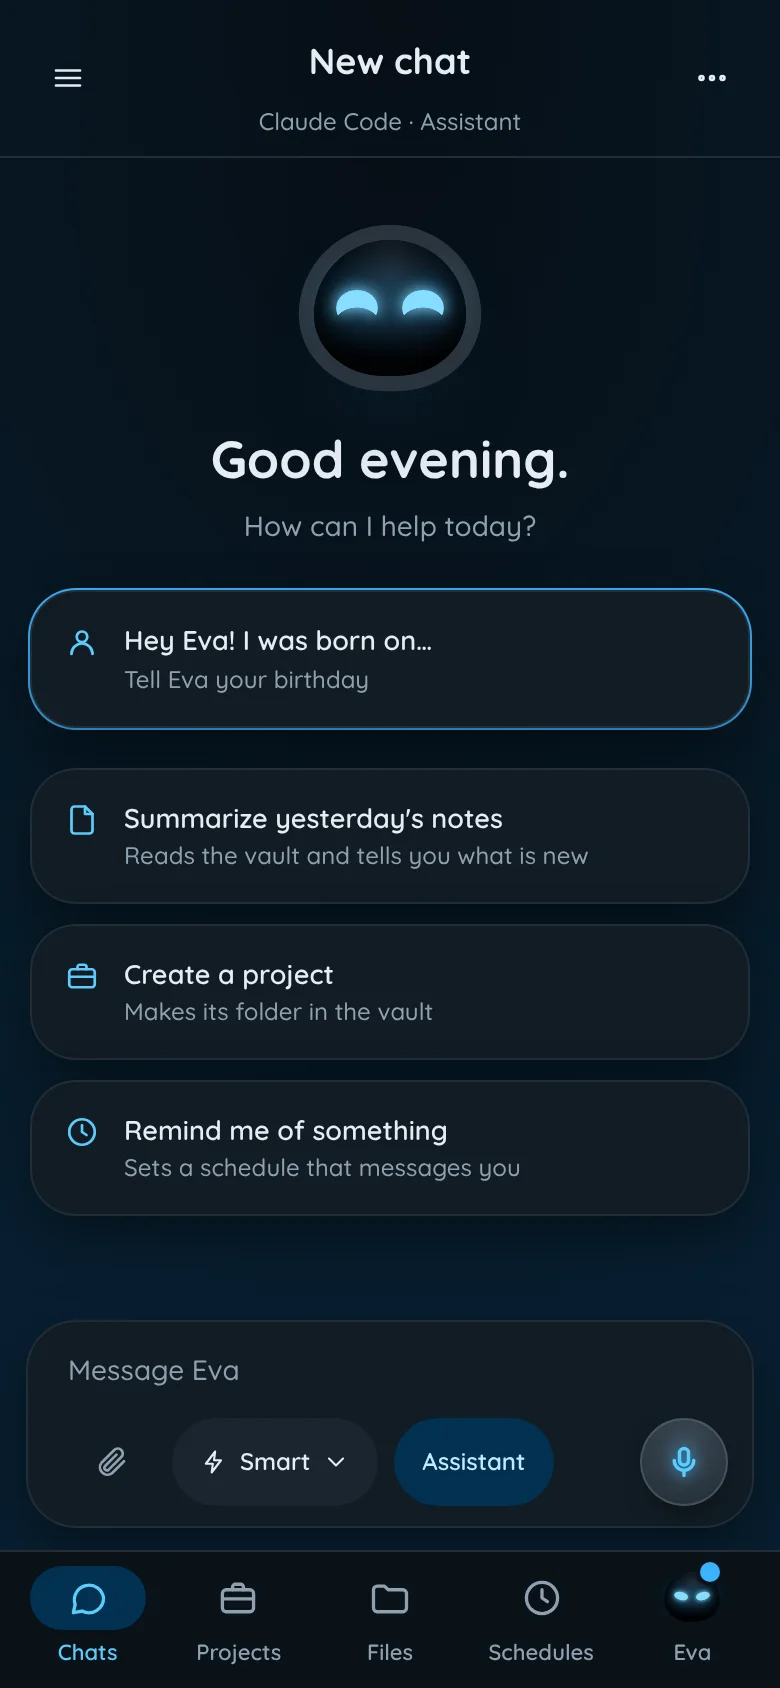
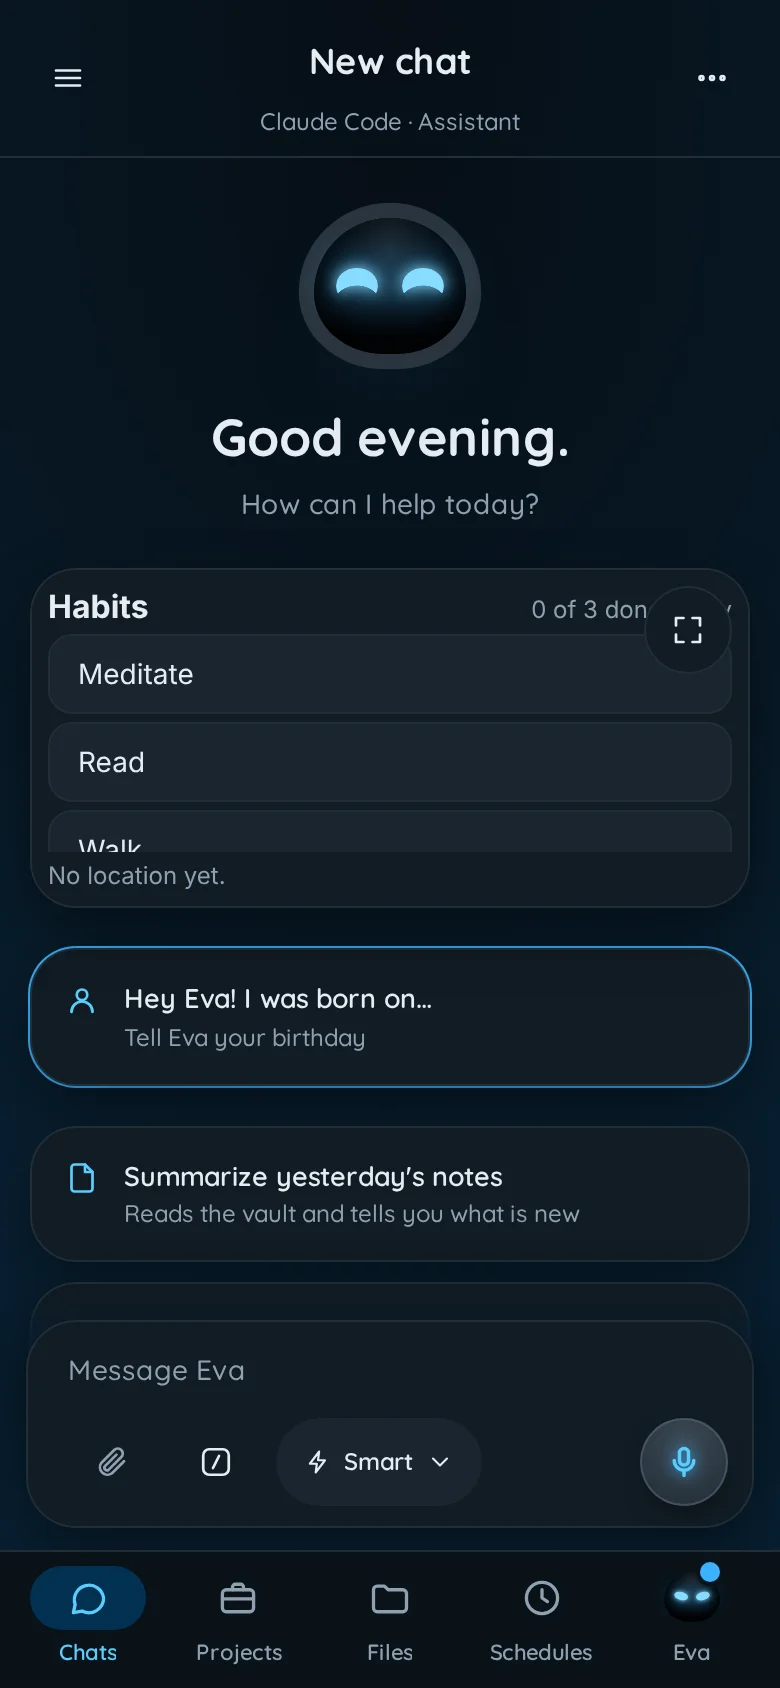
docs(design): show the widget grid on the New chat page
The New chat page now shows the widgets that the person turned on, below
the greeting (#691). The capture waits for the demo's habits widget, so
the guide shows it with its content.

Claude-Session: https://claude.ai/code/session_011YsmyfS8LAYALfwL5oeSDx

diff --git a/scripts/capture-design.ts b/scripts/capture-design.ts
@@ -226,6 +226,8 @@ const scenes: readonly Scene[] = [
     show: async (page) => {
       const id = await newChat(page);
       await page.locator(".greeting, .new-chat").first().waitFor();
+      // The demo approved the habits widget: its frame shows its habits once it is ready (#691).
+      await page.frameLocator(".widget-grid iframe").locator('.widget[data-ready="true"]').waitFor();
       return id;
     },
     // The empty chat would stay in the list of every later capture.

diff --git a/docs/design/eve/README.md b/docs/design/eve/README.md
@@ -272,6 +272,7 @@ Each page has a computer and a phone capture, in light and dark. The light captu
 ![Computer](screenshots/new-computer-light.webp) ![Phone](screenshots/new-phone-light.webp)
 
 - EVE greets with happy eyes instead of a blank page.
+- The widgets that the person turned on show in a grid below the greeting, in sandboxed frames. A corner button opens one in full screen.
 - Suggestions show what Eva does well: notes, calendar, projects and reminders. The calendar shows only when Google is set up.
 - With no engine or no vault, EVE sleeps instead. She names the missing step, with a button to it, and the message box locks.
 - The engine and the model show in the composer, and change there. The header shows the mode.
